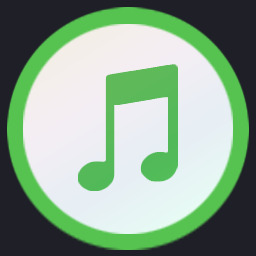
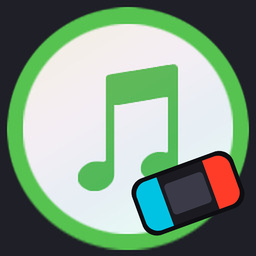
图标右下角加一台倾斜的 Switch；README 补 sphaira 前端启动的做法
图标
- 在绿色圆环的右下角叠一台倾斜 20° 的 Switch（左蓝右红的官方配色），
  标明这是 Switch 特色版。压在圆环边缘上：完全在圆内会显得挤，
  完全在圆外又不像同一个图标上的东西
- 整套在 4 倍尺寸上画完再缩回去。旋转后的斜边直接画会有锯齿，
  超采样是这里最省事的抗锯齿办法
- 图形四周留一圈近黑描边，保证压在绿环和白底上都分得开
- 上架用的 256x150 同步重做，做法和原来一致（方图缩到 150 高居中）

README
- 补一节「放到 HOME 界面上」：用 sphaira 给 NRO 生成前端启动即可，
  它在机器上就能做完。装好的图标不含播放器，只负责加载 SD 卡上的 NRO，
  所以之后更新播放器只换 NRO，图标不用重装
- 明确写了本项目不自带这个功能——sphaira 已经做好且对任何 NRO 通用，
  我们再实现一遍只是重复劳动

Changed region(s): [[0.5, 0.5625, 0.9375, 0.9375]]

diff --git a/README.md b/README.md
@@ -34,6 +34,15 @@
 首次使用：按 `＋` 进设置 → **浏览 SD 卡** → 进到你的音乐目录 → 按 `Y` 设为默认音乐目录。
 以后启动会自动扫描这个目录。
 
+### 放到 HOME 界面上
+
+想让它和游戏并排出现在 HOME 界面、不必每次长按 R 进 hbmenu，用
+[sphaira](https://github.com/NaGaa95/sphaira) 给这个 NRO 生成一个前端启动（forwarder）即可，
+它在机器上就能做完。装好的图标本身不含播放器，只负责把 SD 卡上的 NRO 加载起来，
+所以之后更新播放器只换 `MusicPlayer2.nro`，图标不用重装。
+
+本项目不自带这个功能：sphaira 已经把它做好了，而且它对任何 NRO 都通用。
+
 ---
 
 ## 功能
